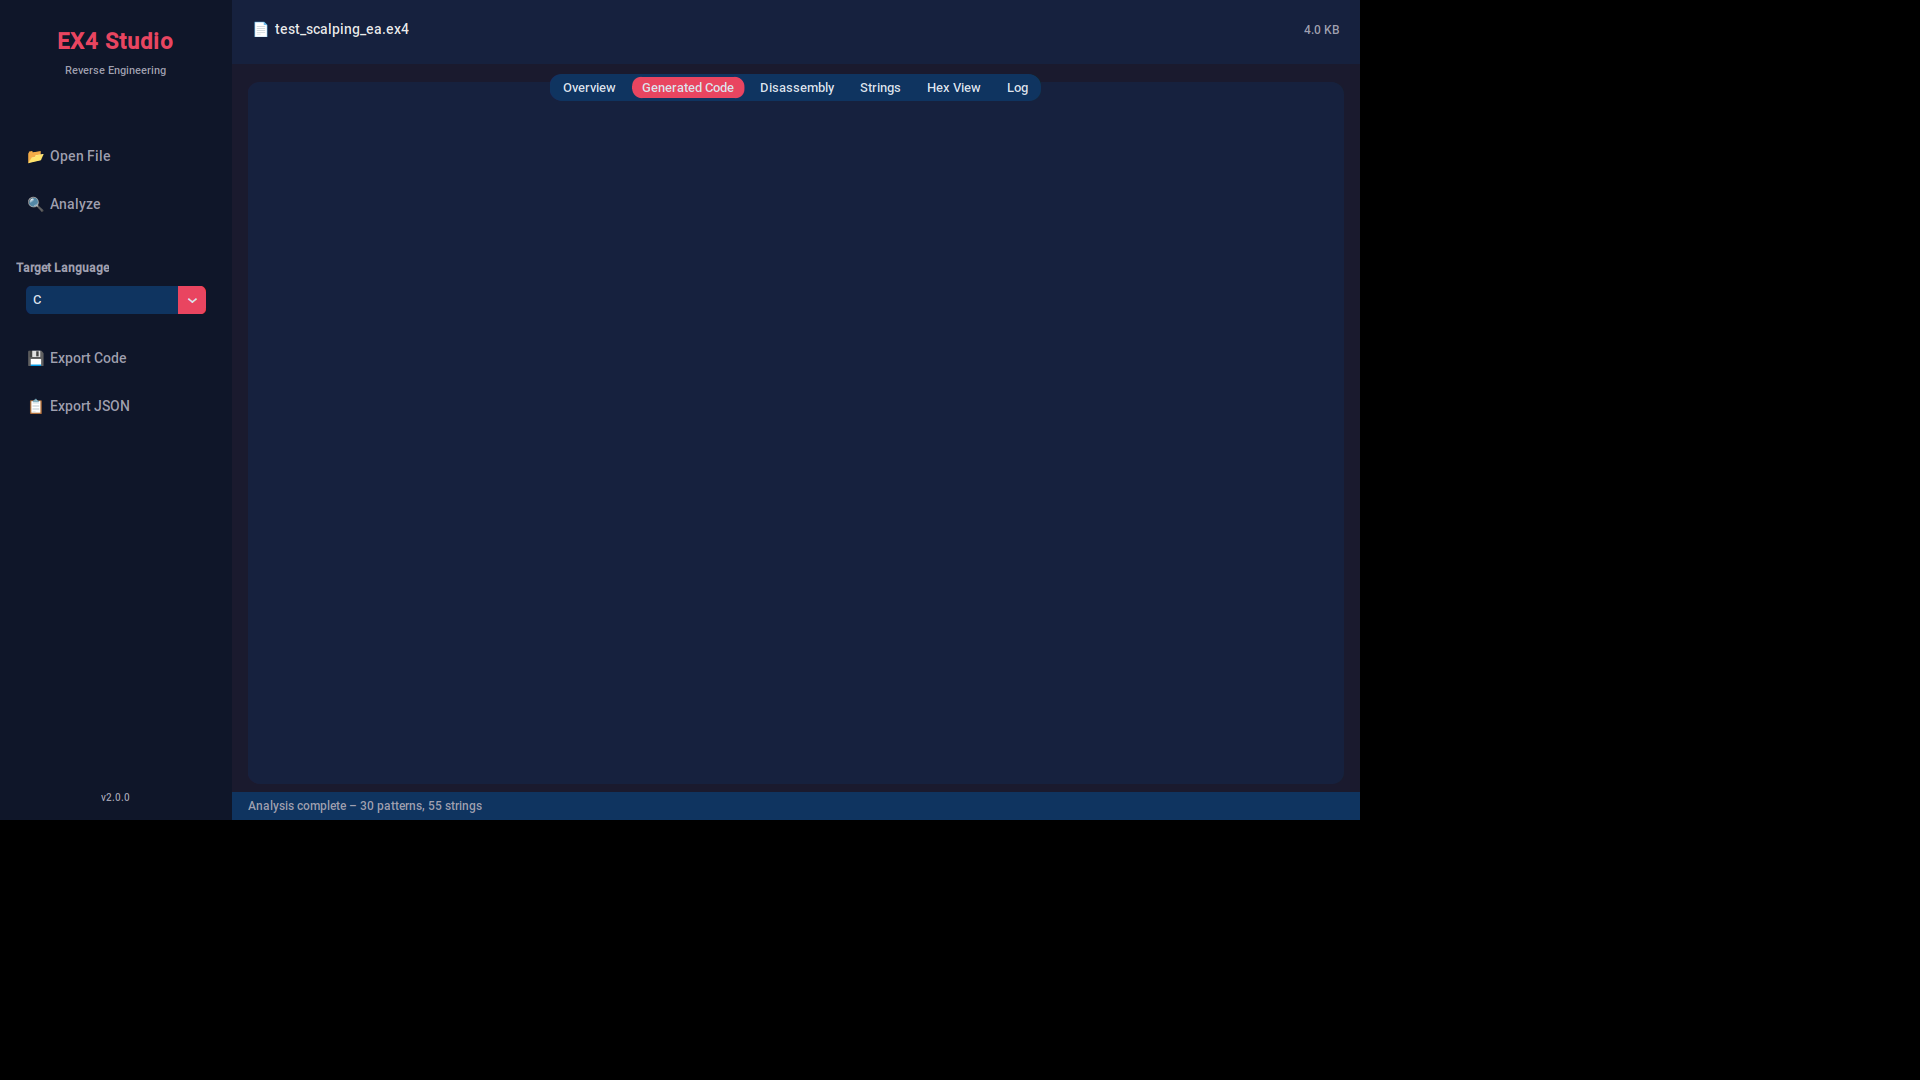
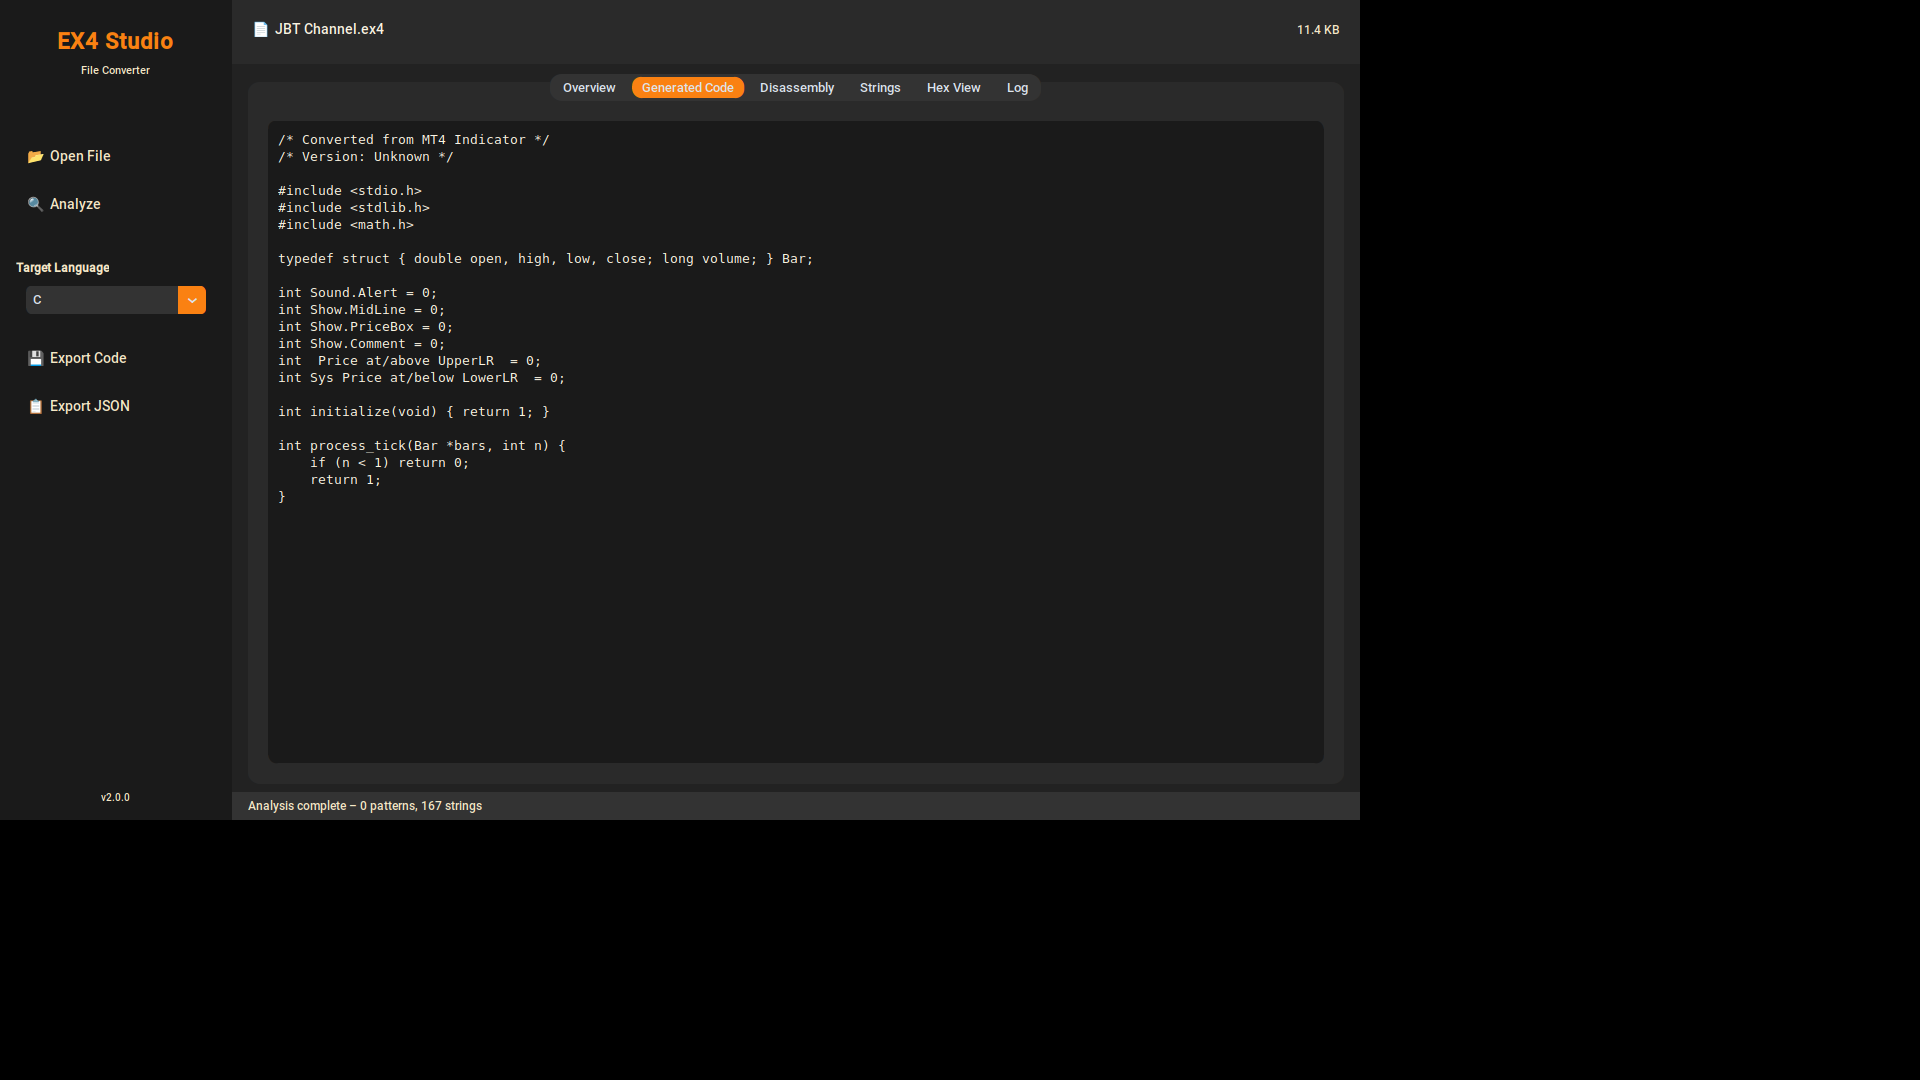
Update screenshots with new GUI theme and add minor README update

diff --git a/README.md b/README.md
@@ -34,6 +34,11 @@ The requirements.txt includes:
 python ex4_debug_decompiler.py
 ```
 
+Or launch the modern GUI application:
+```bash
+python ex4_gui_app.py
+```
+
 ## Usage
 
 1. Launch the application
